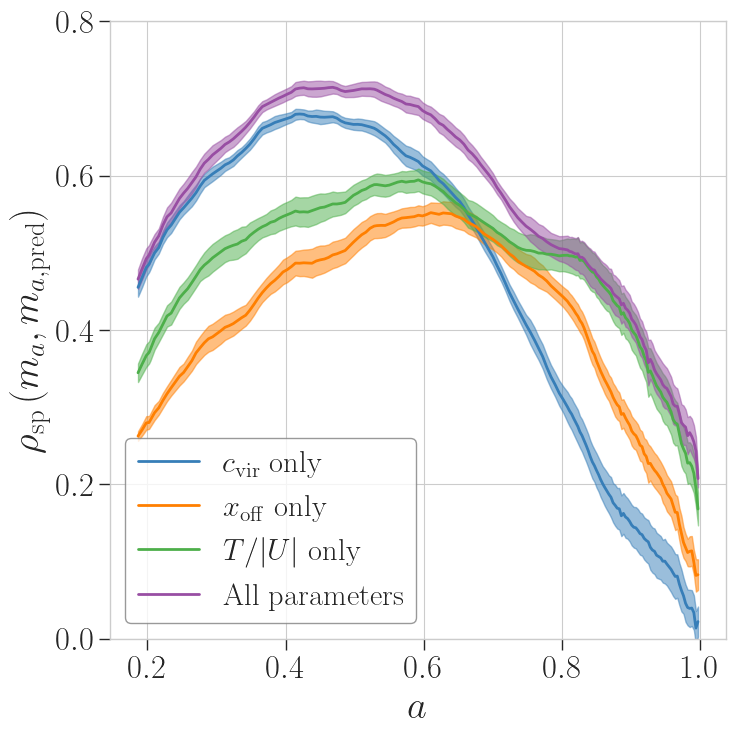
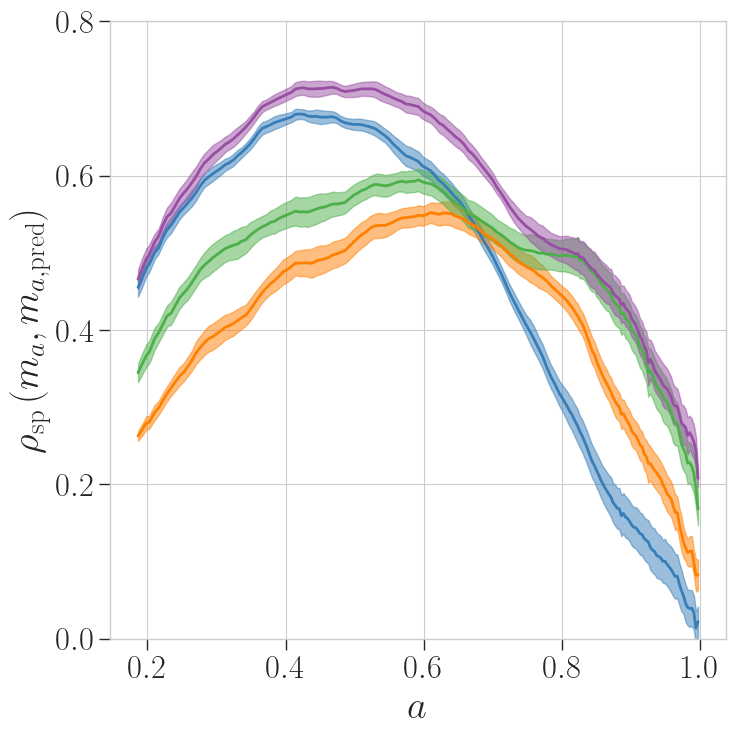
better legend in predictin mAH

diff --git a/bin/figures.py b/bin/figures.py
@@ -477,7 +477,6 @@ class PredictMAH(Figure):
         ax.set_ylabel(rf"${rho_latex}\left(m_{{a}}, m_{{a, \rm{{pred}}}}\right)$")
         ax.set_yticks([0.0, 0.2, 0.4, 0.6, 0.8])
         ax.set_ylim(0.0, 0.8)
-        ax.legend()
 
         # (2) Correlation a(m) vs a_pred(m) figure
         fig2, ax = plt.subplots(1, 1)
@@ -491,6 +490,7 @@ class PredictMAH(Figure):
         ax.set_yticks([0.0, 0.2, 0.4, 0.6, 0.8])
         ax.set_ylim(0.0, 0.8)
         ax.set_yticklabels(f"${x:.1f}$" for x in ax.get_yticks())
+        ax.legend(loc="best")
 
         return {"corr_pred_mah_ma": fig1, "corr_pred_mah_am": fig2}
 
